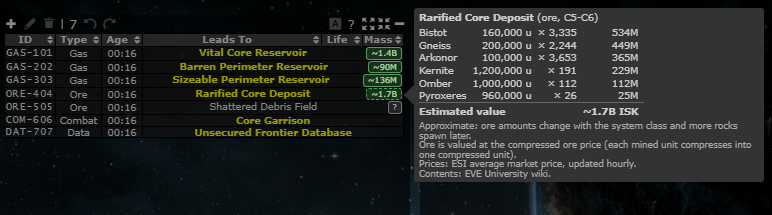
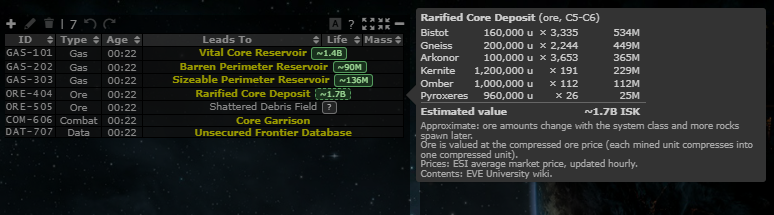
Site value: review round 2 - chip next to the name, Leads To sorts by name (data-text), breakdown beside the list

diff --git a/app/js/fork/site-values.js b/app/js/fork/site-values.js
@@ -182,23 +182,56 @@ const siteValues = {
 			const $cell = $(this).children("td").eq(3);
 			const site = on ? siteValues.siteFor(signatures[$(this).attr("data-id")], siteValues.sites) : null;
 			let $chip = $cell.children(".site-value-chip");
-			if (!site) { $chip.remove(); return; }
+			if (!site) {
+				if ($chip.length) { $chip.remove(); siteValues.sortText($cell); }
+				return;
+			}
 			const est = siteValues.estimate(site, siteValues.data, siteValues.live);
 			const text = siteValues.chipText(est);
 			const tip = siteValues.tooltip(site, est, siteValues.data.fallbackPrices && siteValues.data.fallbackPrices.date);
 			if ($chip.length && $chip.text() === text && $chip.attr("data-tooltip") === tip) { return; }
 			if (!$chip.length) {
-				// first in the cell: it floats right, so in a narrow cell the name wraps beside it instead of pushing it out
-				$chip = $("<span class=\"site-value-chip\"></span>").prependTo($cell);
+				// right after the name; an inline-block that doesn't break, so in a narrow cell it wraps under the name whole
+				$chip = $("<span class=\"site-value-chip sig-name-extra\"></span>").appendTo($cell);
 			}
 			$chip.text(text).attr("data-tooltip", tip)
 				.toggleClass("site-value-approx", est.status === "approximate")
 				.toggleClass("site-value-unknown", est.status === "unverified");
-			if (typeof Tooltips !== "undefined" && Tooltips.attach && !$chip.data("siteValueTip")) {
-				Tooltips.attach($chip);
+			siteValues.sortText($cell);
+			const box = siteValues.tipBox();
+			if (box && !$chip.data("siteValueTip")) {
+				box.attach($chip);
 				$chip.data("siteValueTip", true);
 			}
 		});
+	},
+
+	box: null,
+	/** Our own tooltip (like upstream's Tooltips, but opened beside the right edge of the name cell rather than the chip,
+	so it covers the next column instead of the chips of the rows above and below) */
+	tipBox: function() {
+		if (siteValues.box || typeof jBox === "undefined") { return siteValues.box; }
+		siteValues.box = new jBox("Tooltip", {
+			getContent: "data-tooltip",
+			position: { x: "right", y: "center" },
+			outside: "x",
+			repositionOnOpen: true,
+			onOpen: function() {
+				const chip = this.source && this.source[0], cell = chip && this.source.closest("td")[0];
+				const gap = cell ? Math.max(0, cell.getBoundingClientRect().right - chip.getBoundingClientRect().right) : 0;
+				this.options.offset = { x: gap, y: 0 };
+			}
+		});
+		return siteValues.box;
+	},
+
+	/** Tablesorter reads a cell's data-text instead of its text: keep the Leads To column sorting by the site name alone.
+	Fork additions in the name cell carry the class sig-name-extra (any fork feature may add one); without any, the
+	attribute goes and upstream's own text counts again. */
+	sortText: function($cell) {
+		const $extras = $cell.children(".sig-name-extra");
+		if (!$extras.length) { $cell.removeAttr("data-text"); return; }
+		$cell.attr("data-text", $cell.clone().children(".sig-name-extra").remove().end().text().trim());
 	},
 
 	scheduled: null,

diff --git a/app/css/fork/site-values.css b/app/css/fork/site-values.css
@@ -1,9 +1,9 @@
 /* Gas and ore site value (fork feature: site-values).
-   A small chip at the right end of the name cell; dashed border for approximate ore figures, grey "?" for sites
-   without a value. Floated, so in a narrow cell the name wraps and the chip always stays whole and readable. */
+   A small chip right after the site name; dashed border for approximate ore figures, grey "?" for sites without a
+   value. An unbreakable inline-block: in a narrow cell it wraps under the name and stays whole. */
 #sigTable .site-value-chip {
-	float: right;
-	margin: 0 1px 0 4px;
+	display: inline-block;
+	margin-left: 5px;
 	padding: 0 4px;
 	border: 1px solid rgba(110, 200, 120, 0.7);
 	border-radius: 3px;

diff --git a/changes/2026-11-15-site-value-estimate/README.md b/changes/2026-11-15-site-value-estimate/README.md
@@ -37,7 +37,9 @@ Tip: none. The chip is visible on the row itself, and its tooltip explains it.
   mined unit compresses into one compressed unit (both items have portion size 100 in the SDE, the compressed one at
   1/100 of the volume), so value = units x compressed price.
 - An item with no live price uses the price stored in `sites.json` (2026-11-15), and the tooltip names it.
-- The chip floats at the right end of the name cell, so in a narrow list the name wraps and the value stays whole.
+- The chip sits right after the name and never breaks: in a narrow list it wraps under the name, whole. The name cell
+  gets `data-text` (the name alone), so sorting the Leads To column still sorts by name. The breakdown opens beside the
+  right edge of the list, so it doesn't cover the other rows' chips.
 - Code: `app/js/fork/site-values.js` (pure logic in `siteValues`, mocha tests in `app/js-test/fork/site-values.test.js`,
   which also checks the data file), `app/css/fork/site-values.css`; PHP test `tests/market_prices_test.php`.
 - Catalog: `siteValues` (passive, exposed `.site-value-chip`); mask-default allow-lists (`app/js/fork/mask-defaults.js`,
